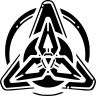
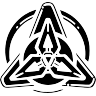
Fix aspect ratio preservation and fill="none" handling in SVG to PNG conversion
- Changed Inkscape export to use only --export-width to preserve aspect ratio
- Add PIL-based padding to center non-square symbols in 96x96 canvas
- Fix preprocessing to replace fill="none" with fill="black" for stroked symbols
- Fixes icon.zzzBounty.png which had stroke-only paths without fill
- Some icons now correctly show their natural aspect ratios (e.g., echoOfWar 96x82, homeCoin 96x80)

diff --git a/convert_svg_to_png.py b/convert_svg_to_png.py
@@ -88,15 +88,28 @@ def preprocess_svg_for_template(svg_path: Path) -> Path:
     # Extract the entire Symbols group
     symbols_group = svg_content[symbols_start:symbols_end]
     
-    # Replace all path elements to ensure they have fill="black"
-    # Only add fill="black" to paths that don't already have a fill attribute
-    def add_fill(match):
+    # Replace fill="none" with fill="black" and add stroke="black" for stroked paths
+    # Also ensure all paths have fill="black"
+    def fix_path_fill(match):
         path_tag = match.group(0)
+        
+        # Replace fill="none" with fill="black"
+        path_tag = re.sub(r'fill="none"', 'fill="black"', path_tag)
+        
+        # If path has a stroke but no fill, or fill is still missing, ensure it has fill="black"
         if 'fill=' not in path_tag:
-            return path_tag.replace('<path ', '<path fill="black" ')
+            path_tag = path_tag.replace('<path ', '<path fill="black" ')
+        
+        # For stroked paths, also add fill to make them visible
+        if 'stroke=' in path_tag and 'fill="black"' not in path_tag:
+            # If we just replaced fill="none" it will already have fill="black"
+            # but if not, add it
+            if 'fill=' not in path_tag:
+                path_tag = path_tag.replace('<path ', '<path fill="black" ')
+        
         return path_tag
     
-    symbols_group = re.sub(r'<path\s+[^>]*>', add_fill, symbols_group)
+    symbols_group = re.sub(r'<path\s+[^>]*>', fix_path_fill, symbols_group)
     
     # Create a new SVG with just the symbols group
     # Use the standard viewBox from Apple SF Symbol templates
@@ -116,7 +129,7 @@ def preprocess_svg_for_template(svg_path: Path) -> Path:
 
 def convert_svg_to_png(svg_path: Path, png_path: Path, size: int = 96) -> bool:
     """
-    Convert an SVG file to a PNG file using Inkscape.
+    Convert an SVG file to a PNG file using Inkscape, preserving aspect ratio.
     
     Args:
         svg_path: Path to the input SVG file
@@ -127,6 +140,7 @@ def convert_svg_to_png(svg_path: Path, png_path: Path, size: int = 96) -> bool:
         True if conversion was successful, False otherwise
     """
     temp_svg = None
+    temp_png = None
     try:
         # Preprocess the SVG to extract just the symbol content
         temp_svg = preprocess_svg_for_template(svg_path)
@@ -139,26 +153,51 @@ def convert_svg_to_png(svg_path: Path, png_path: Path, size: int = 96) -> bool:
         if png_path.exists():
             png_path.unlink()
         
+        # Create a temporary PNG path for the initial export
+        temp_png = tempfile.NamedTemporaryFile(suffix='.png', delete=False)
+        temp_png.close()
+        temp_png_path = Path(temp_png.name)
+        
         # Try different symbol IDs - some symbols use Regular-M, others use Regular-S
         symbol_ids = ['Regular-M', 'Regular-S', 'Regular-L']
         
         for symbol_id in symbol_ids:
             # Use Inkscape to export just the specified symbol
+            # Use --export-width only to preserve aspect ratio
             cmd = [
                 'inkscape',
                 str(temp_svg_abs),
                 f'--export-id={symbol_id}',
                 '--export-id-only',
                 f'--export-width={size}',
-                f'--export-height={size}',
                 '--export-type=png',
-                f'--export-filename={str(png_path_abs)}'
+                f'--export-filename={str(temp_png_path.resolve())}'
             ]
             
             result = subprocess.run(cmd, capture_output=True, text=True)
             
             # Check if the export succeeded by verifying the file was created
-            if result.returncode == 0 and png_path.exists() and png_path.stat().st_size > 0:
+            if result.returncode == 0 and temp_png_path.exists() and temp_png_path.stat().st_size > 0:
+                # Now pad/center the image to make it exactly size x size
+                from PIL import Image
+                img = Image.open(temp_png_path)
+                
+                # Create a new transparent image of the target size
+                final_img = Image.new('RGBA', (size, size), (0, 0, 0, 0))
+                
+                # Calculate position to center the image
+                x_offset = (size - img.width) // 2
+                y_offset = (size - img.height) // 2
+                
+                # Paste the image centered
+                final_img.paste(img, (x_offset, y_offset), img if img.mode == 'RGBA' else None)
+                
+                # Save the final image
+                final_img.save(png_path_abs, 'PNG')
+                
+                # Clean up temp PNG
+                temp_png_path.unlink()
+                
                 return True
         
         # None of the symbol IDs worked
@@ -169,9 +208,11 @@ def convert_svg_to_png(svg_path: Path, png_path: Path, size: int = 96) -> bool:
         print(f"Exception converting {svg_path.name}: {e}")
         return False
     finally:
-        # Clean up temporary file
+        # Clean up temporary files
         if temp_svg and temp_svg != svg_path and temp_svg.exists():
             temp_svg.unlink()
+        if temp_png and Path(temp_png.name).exists():
+            Path(temp_png.name).unlink()
 
 
 def verify_png(png_path: Path) -> Tuple[bool, str]:
@@ -222,12 +263,6 @@ def main():
     project_root = Path(__file__).parent
     resources_dir = project_root / 'Sources' / 'SVGAssetConverter' / 'Resources' / 'Media.xcassets' / 'Icons4EmbeddedWidgets'
     output_dir = project_root / 'VALUEADD'
-    
-    # Check if rsvg-convert is available
-    if not check_rsvg_convert():
-        print("Error: rsvg-convert is not installed.")
-        print("Install it with: sudo apt-get install librsvg2-bin")
-        sys.exit(1)
     
     # Create output directory if it doesn't exist
     output_dir.mkdir(parents=True, exist_ok=True)
